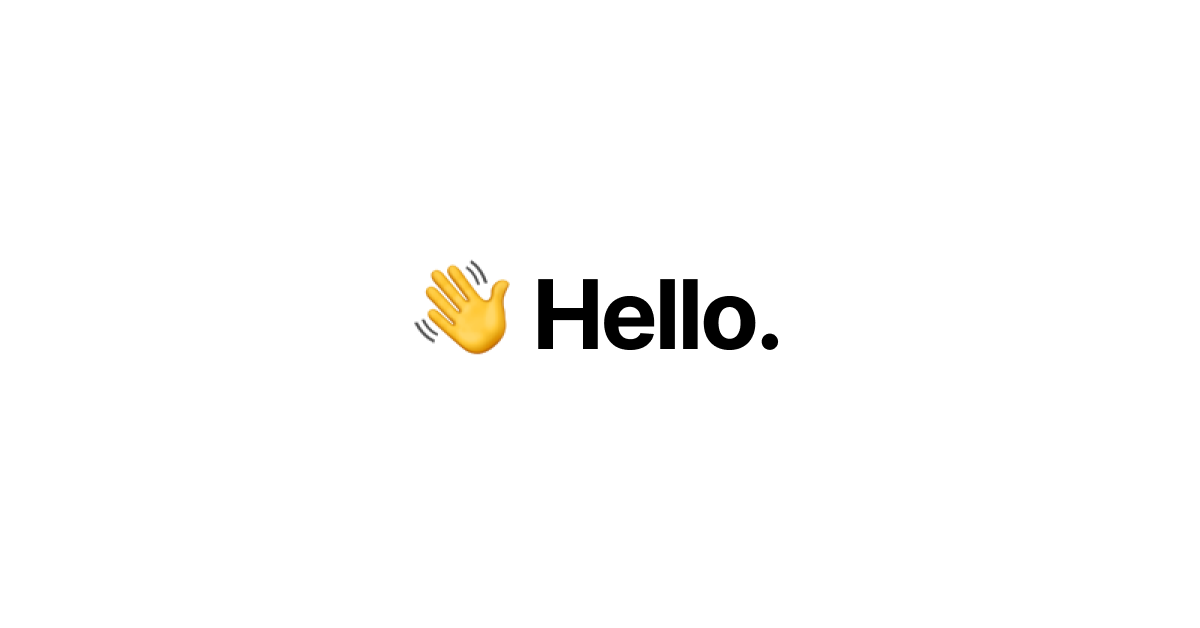
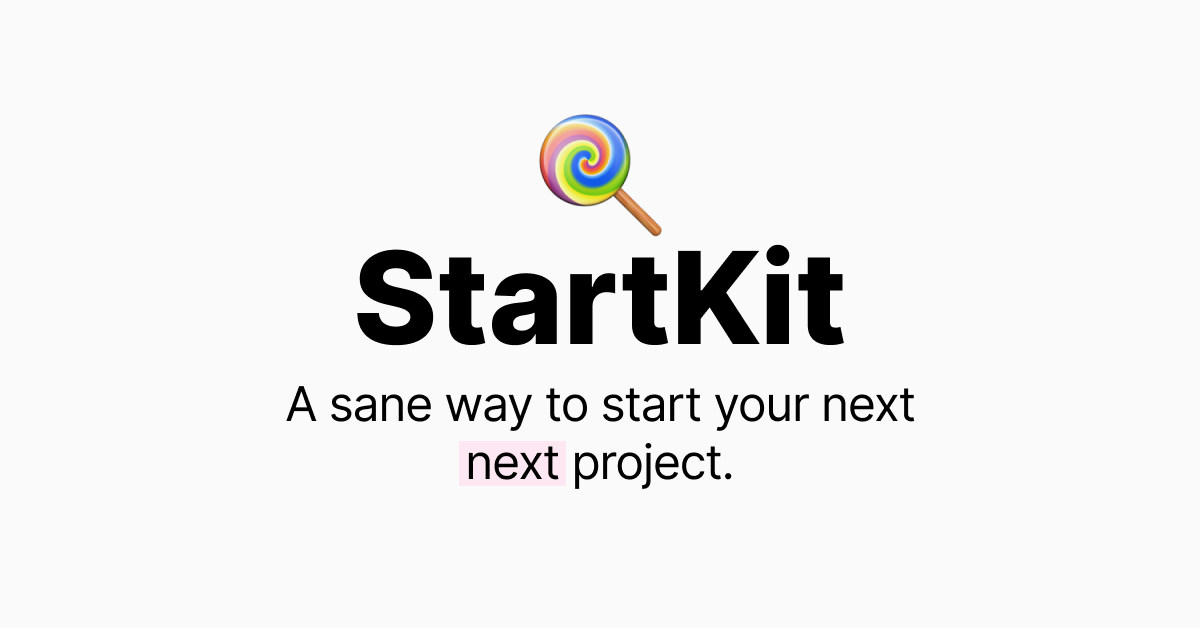
Better dark mode handling

Changed region(s): [[0.2775, 0.1815, 0.7092, 0.5748], [0.2158, 0.6051, 0.7708, 0.7866]]

diff --git a/app/layout.tsx b/app/layout.tsx
@@ -15,7 +15,10 @@ type Props = {
 
 export default function RootLayout({ children }: Props) {
   return (
-    <html lang="en" className={clsx(inter.variable, "bg-gray-50")}>
+    <html
+      lang="en"
+      className={clsx(inter.variable, "h-full font-sans antialiased")}
+    >
       {/*
         <head /> will contain the components returned by the nearest parent
         head.tsx. Find out more at https://beta.nextjs.org/docs/api-reference/file-conventions/head
@@ -51,9 +54,11 @@ export default function RootLayout({ children }: Props) {
           themeColor="#c026d3"
           titleTemplate="%s | StartKit"
         />
-        <Analytics />
       </head>
-      <body>{children}</body>
+      <body className="h-full bg-neutral-50 p-4 text-neutral-800 transition-colors dark:bg-neutral-900 dark:text-neutral-50">
+        <Analytics />
+        {children}
+      </body>
     </html>
   )
 }

diff --git a/app/page.tsx b/app/page.tsx
@@ -1,9 +1,22 @@
 export default function Home() {
   return (
-    <main>
-      <h1 className="text-center text-6xl font-extrabold tracking-tighter">
-        👋 Hello.
-      </h1>
-    </main>
+    <>
+      <main className="flex h-full grow flex-col items-center justify-center space-y-2">
+        <span className="text-7xl font-bold">🍭</span>
+        <h1 className="text-7xl font-bold tracking-tighter">StartKit</h1>
+        <span className="text-center text-2xl tracking-tight text-neutral-600">
+          A sane way to start your next{" "}
+          <a
+            href="https://nextjs.org/"
+            target="_blank"
+            rel="noreferrer"
+            className="bg-pink-100 px-1 transition-colors hover:bg-pink-200"
+          >
+            next
+          </a>{" "}
+          project.
+        </span>
+      </main>
+    </>
   )
 }

diff --git a/components/layout/SEO.tsx b/components/layout/SEO.tsx
@@ -4,8 +4,7 @@ import { fullURL } from "lib/url-fns"
 
 export const NEXT_SEO_DEFAULT: NextSeoProps = {
   title: "StartKit",
-  description:
-    "StartKit is a sane starting place for building your Next.js apps",
+  description: "A sane way to start your next next project.",
   openGraph: {
     type: "website",
     url: fullURL(),

diff --git a/app/head.tsx b/app/head.tsx
@@ -3,7 +3,7 @@ import SEO from "components/layout/SEO"
 export default function Head() {
   return (
     <>
-      <SEO />
+      <SEO title="A sane way to start your next next project." />
     </>
   )
 }

diff --git a/README.md b/README.md
@@ -27,6 +27,7 @@ The app will be running at [http://localhost:3000](http://localhost:3000).
 - The beautiful [Inter](https://rsms.me/inter/) typeface.
 - [Next SEO](https://github.com/garmeeh/next-seo) for SEO handling.
 - [Jest](https://jestjs.io/) testing, optimized for Next.js
+- Automatic Dark Mode support (based on system setting).
 - Sane VSCode settings and recommended extensions
 
 ## Naming the project
